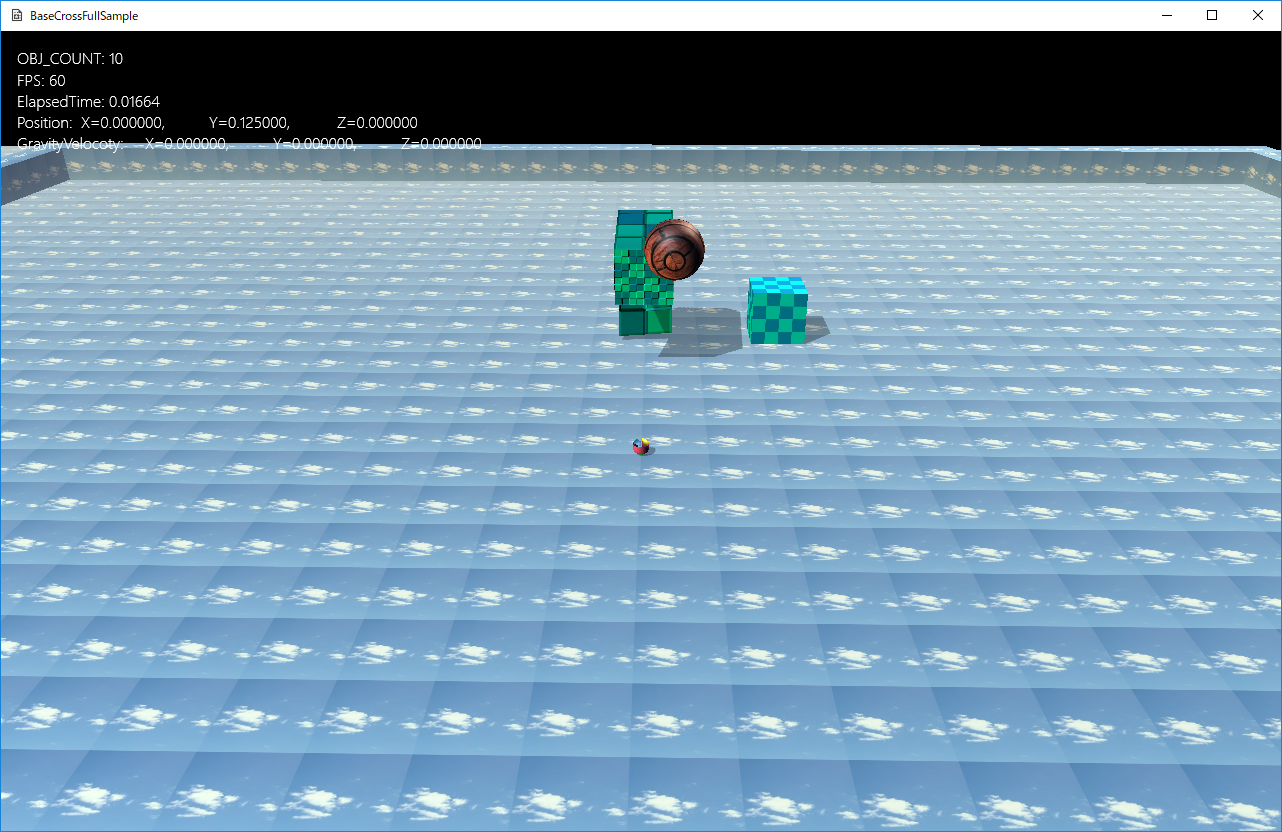
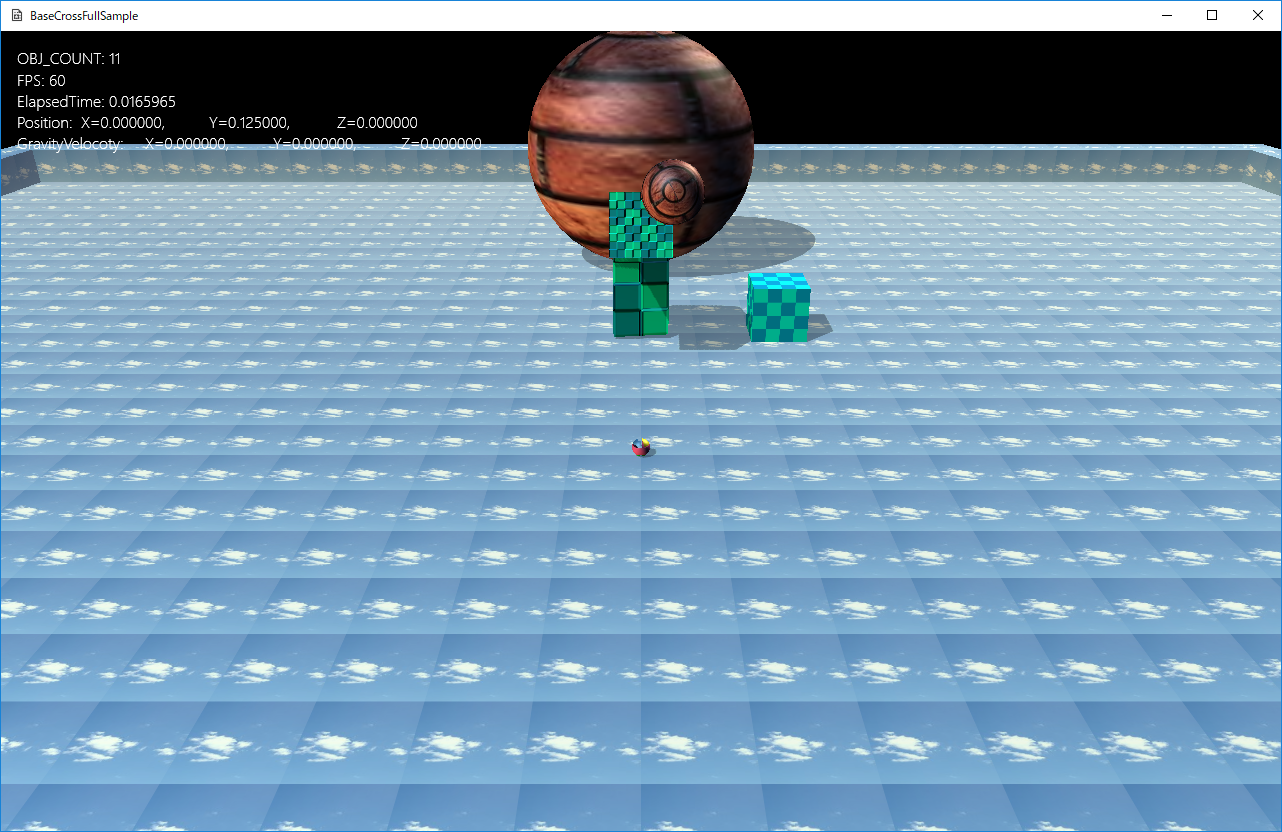
フルサンプル207修正。ドキュメントも修正。

Changed region(s): [[0.0, 0.0312, 1.0, 1.0]]

diff --git a/Documents/12_07.html b/Documents/12_07.html
@@ -25,10 +25,10 @@
 <p>図1207a</p>
 <p>&nbsp;</p>
 　プレイヤーはAボタンでジャンプ、Xボタンで球を発射します。この辺りは前項と同じです。<br />
-　このサンプルには２つのボックス型オブジェクトが配置されています。右のはスタティックなモデルで、左がボーンモデルです。<br />
+　このサンプルには２つのボックス型オブジェクトと、奥に大きい球体が配置されています。右と奥ははスタティックなモデルで、左がボーンモデルです。<br />
 　Xボタンで発射された球は、これらのオブジェクトにぶつかると、スパークを出し反発します。<br />
 　ボーンモデルの場合も、アニメーションされている場所で反発します。
-<h4>メッシュの三角形との衝突判定</h4>
+<h4>メッシュ内の三角形との衝突判定</h4>
 　前項で紹介した<b>衝突判定</b>は<b>ボリューム境界</b>を使用したものです。モデルなどを単純な３Ｄの形状と見立てて、判定を行います。<br />
 　しかし今回のサンプルでは、メッシュ内の各三角形と衝突判定を行います。<br />
 　まず、発射された球体との判定ですが、<b>Charaaacter.h/cpp</b>に記述があります<b>FireSphereクラス</b>です。<br />
@@ -50,34 +50,37 @@ void FireSphere::OnUpdate() {
         }
         else {
             ptrDraw->SetDiffuse(Col4(1.0f, 1.0f, 1.0f, 1.0f));
-
             <span class="red">auto EnemyPtr = GetStage()->GetSharedGameObject&lt;EnemyBox>(L"EnemyBox");
+            auto BonePtr = GetStage()->GetSharedGameObject&lt;BoneChara>(L"BoneChara");
+            auto SpherePtr = GetStage()->GetSharedGameObject&lt;EnemySphere>(L"EnemySphere");
             Vec3 HitPoint;
             TRIANGLE tri;
             bool isModelHit = false;
-            if (EnemyPtr->IsHitSegmentTriangles(BeforePos, Pos, tri,HitPoint)) {
+            if (EnemyPtr->IsHitSegmentTriangles(BeforePos, Pos, tri, HitPoint)) {
                 //スパークの放出
                 auto PtrSpark = GetStage()->GetSharedGameObject&lt;MultiSpark>(L"MultiSpark");
                 PtrSpark->InsertSpark(HitPoint);
                 isModelHit = true;
             }
-            else {
-                auto BonePtr = GetStage()->GetSharedGameObject&lt;BoneChara>(L"BoneChara");
-                if (BonePtr->IsHitSegmentTriangles(BeforePos, Pos, tri,HitPoint)) {
-                    //スパークの放出
-                    auto PtrSpark = GetStage()->GetSharedGameObject&lt;MultiSpark>(L"MultiSpark");
-                    PtrSpark->InsertSpark(HitPoint);
-                    isModelHit = true;
-                }
+            else if (BonePtr->IsHitSegmentTriangles(BeforePos, Pos, tri, HitPoint)) {
+                //スパークの放出
+                auto PtrSpark = GetStage()->GetSharedGameObject&lt;MultiSpark>(L"MultiSpark");
+                PtrSpark->InsertSpark(HitPoint);
+                isModelHit = true;
             }
+            else if (SpherePtr->IsHitSegmentTriangles(BeforePos, Pos, tri, HitPoint)) {
+                //スパークの放出
+                auto PtrSpark = GetStage()->GetSharedGameObject&lt;MultiSpark>(L"MultiSpark");
+                PtrSpark->InsertSpark(HitPoint);
+                isModelHit = true;
+            }</span>
             if (isModelHit) {
                 m_Velocity.reflect(tri.GetNormal());
                 if (m_Velocity.length() > 20.0f) {
                     m_Velocity.normalize();
                     m_Velocity *= 20.0f;
                 }
-
-            }</span>
+            }
         }
     }
     else {
@@ -98,12 +101,26 @@ void FireSphere::OnUpdate() {
 　この関数は以下のようになっています。
 <div class="box1">
 <pre>
-    bool EnemyBox::IsHitSegmentTriangles(const Vec3& StartPos, const Vec3& EndPos,
-             TRIANGLE& tri, Vec3& HitPoint) {
-        auto PtrDraw = GetComponent&lt;BcPNTStaticDraw>();
-        size_t hitIndex;
-        return <span class="red">PtrDraw->HitTestStaticMeshSegmentTriangles(StartPos, EndPos, HitPoint, tri,hitIndex);</span>
+bool EnemyBox::IsHitSegmentTriangles(const Vec3& StartPos, const Vec3& EndPos, TRIANGLE& tri, Vec3& HitPoint) {
+    auto ptrColl = GetComponent&lt;CollisionObb>();
+    OBB obb = ptrColl->GetObb();
+    SPHERE StartSp;
+    StartSp.m_Center = StartPos;
+    StartSp.m_Radius = 0.25f;
+    SPHERE EndSp;
+    EndSp.m_Center = EndPos;
+    EndSp.m_Radius = 0.25f;
+    SPHERE sp = HitTest::SphereEnclosingSphere(StartSp, EndSp);
+    Vec3 ret;
+    if (!HitTest::SPHERE_OBB(sp, obb, ret)) {
+        //判定前処理
+        //これにより無駄な判定を避けられる
+        return false;
     }
+    <span class="red">auto PtrDraw = GetComponent&lt;BcPNTStaticDraw>();
+    size_t hitIndex;
+    return PtrDraw->HitTestStaticMeshSegmentTriangles(StartPos, EndPos, HitPoint, tri, hitIndex);</span>
+}
 </pre>
 </div>
 　のようになっています。<br />
@@ -112,27 +129,27 @@ void FireSphere::OnUpdate() {
 　<b>FireSphere側</b>では、<b>FireSphere::OnUpdate()関数</b>で、
 <div class="box1">
 <pre>
-            if (EnemyPtr->IsHitSegmentTriangles(BeforePos, Pos, tri,HitPoint)) {
-                //スパークの放出
-                auto PtrSpark = GetStage()->GetSharedGameObject&lt;MultiSpark>(L"MultiSpark");
-                PtrSpark->InsertSpark(HitPoint);
-                isModelHit = true;
-            }
+        if (EnemyPtr->IsHitSegmentTriangles(BeforePos, Pos, tri, HitPoint)) {
+            //スパークの放出
+            auto PtrSpark = GetStage()->GetSharedGameObject&lt;MultiSpark>(L"MultiSpark");
+            PtrSpark->InsertSpark(HitPoint);
+            isModelHit = true;
+        }
 </pre>
 </div>
 　とします。つまり、ヒットポイントをエミッターとしてエフェクトを送出します。また、<b>isModelHitフラグ</b>をtrueにします。<br />
-　同様の処理を<b>BoneChara</b>に対しても行います。左側のくねくねする物体です。このキャラクターのメンバ関数<b>BoneChara::IsHitSegmentTriangles()関数</b>では、<b>描画コンポーネント</b>の<b>HitTestSkinedMeshSegmentTriangles()関数</b>を呼び出します。<br />　こちらは<b>ボーン処理された三角形と線分</b>の衝突判定を行いますので、例えば、このくねくね物体が首をもたげても空中で衝突することはありません。こちらでも同様、スパークを放出します。<br />
+　同様の処理を<b>BoneCharaやEnemySphere</b>に対しても行います。BoneCharaは左側のくねくねする物体です。EnemySphereは奥の球体です。このキャラクターのメンバ関数、例えば<b>BoneChara::IsHitSegmentTriangles()関数</b>では、<b>描画コンポーネント</b>の<b>HitTestSkinedMeshSegmentTriangles()関数</b>を呼び出します。<br />　こちらは<b>ボーン処理された三角形と線分</b>の衝突判定を行いますので、例えば、このくねくね物体が首をもたげても空中で衝突することはありません。こちらでも同様、スパークを放出します。<br />
 　上記どちらかと衝突した場合、<b>isModelHitフラグ</b>はtrueになりますので、
 <div class="box1">
 <pre>
-            if (isModelHit) {
-                m_Velocity.reflect(tri.GetNormal());
-                if (m_Velocity.length() > 20.0f) {
-                    m_Velocity.normalize();
-                    m_Velocity *= 20.0f;
-                }
-
+        if (isModelHit) {
+            m_Velocity.reflect(tri.GetNormal());
+            if (m_Velocity.length() > 20.0f) {
+                m_Velocity.normalize();
+                m_Velocity *= 20.0f;
             }
+
+        }
 </pre>
 </div>
 　という処理で反発（reflect）させます。こうすることで、<b>FireSphere</b>は跳ね返ります。<br />
@@ -168,11 +185,12 @@ void FireSphere::OnCollisionExcute(const CollisionPair& Pair) {
 </pre>
 </div>
 <h4>プレイヤー三角形との衝突判定</h4>
-　プレイヤーも三角形と衝突します。先ほどのボックスやくねくねする物体の三角形との衝突があった場合、エフェクトを放出します。<br />
+　このサンプルではプレイヤーも三角形と衝突します。先ほどのボックスやくねくねする物体の三角形、あるいは奥の球体との衝突があった場合、エフェクトを放出します。<br />
 　プレイヤーは<b>線</b>ではなく<b>球体として</b>判定を行っています。ここは、プレイヤーの1つ前のターン位置と現在の位置をとってきて、<b>線</b>として判定する方法もあるでしょう、ただこのサンプルでは<b>球体として</b>行います。<br />
 　プレイヤーの判定部分は、<b>Player::ChkModelCollision()関数</b>で行ってます。この中から、各物体の<b>三角形と球の判定</b>の関数を呼び出しています。<br />
-　FireSphereとは違い、プレイヤーでは衝突後の処理は記述してません。例えばくねくねする物体の<b>曲がった部分に乗る</b>のような処理があればよりリアルなのでしょうが、その部分は各自検討してください。<br />
-　その処理をするためにはプレイヤーに<b>速度</b>という概念をおいて、コリジョンコンポーネントがやってるような処理を実装する必要があるでしょう。
+　FireSphereとは違い、プレイヤー側では衝突後の処理は記述してません。例えばくねくねする物体の<b>曲がった部分に乗る</b>のような処理があればよりリアルなのでしょうが、その部分は各自検討してください。<br />
+　その処理をするためにはプレイヤーに<b>速度</b>という概念をおいて、コリジョンコンポーネントがやってるような処理を実装する必要があるでしょう。<br />
+　ただし、奥の球体は、球体側で特殊な処理をしています。それは後述します。
 <h4>ボーン情報をとってくる</h4>
 　このサンプルでは<b>スキンメッシュのボーン情報を取得する</b>ことも紹介されています。<br />
 　<b>Character.h/cpp</b>には<b>BallChara</b>というオブジェクトも実装されています。<br />
@@ -217,7 +235,125 @@ void BallChara::OnUpdate() {
 </pre>
 </div>
 　で位置と回転を取り出して設定すれば、<b>BoneChara</b>の特定のボーンに吸着する動きを実装することができます。
-
+<h4>メッシュ内の三角形のデータを変更する</h4>
+　奥にある球体にプレイヤーが衝突すると、球体が削り取られるように壊れていきます。<br />
+　これは、動的にメッシュの内容を変更していくことで実装しています。<br />
+　では<b>動的にメッシュの内容を変更する</b>とはどういうことなのでしょうか？<br />
+　以下の画像に注目ください。最初は球体だったのが、プレイヤーが衝突することで、形状が削り取られています
+<p>&nbsp;</p>
+<img src="img/1207b.png" width="80%"/>
+<p>図1207b</p>
+<p>&nbsp;</p>
+　このサンプルのプレイヤーは、空中でジャンプすることも可能です。球体は大きいですが、球体の上部までジャンプしていって、どこでも削り取ることが可能となっています。<br />
+　さて、実装ですが、まず、このような<b>使いまわしをしない（つまりインスタンスは、ステージ内で1つ）</b>のようなメッシュは、ゲームオブジェクトのメンバ変数として実装しておくと扱いが便利になります。<br />
+　以下、大きい球体（EnemySphere）の宣言部ですが
+<div class="box1">
+<pre>
+class EnemySphere : public GameObject {
+    float m_Scale;
+    Vec3 m_Position;
+    <span class="red">shared_ptr&lt;MeshResource> m_MeshRes;</span>
+public:
+    //構築と破棄
+    EnemySphere(const shared_ptr&lt;Stage>& StagePtr,
+        float Scale,
+        const Vec3& Position
+    );
+    virtual ~EnemySphere();
+    //初期化
+    virtual void OnCreate() override;
+    //操作
+    bool IsHitSegmentTriangles(const Vec3& StartPos, const Vec3& EndPos, TRIANGLE& tri, Vec3& HitPoint);
+    bool IsHitSphereTriangles(const SPHERE& StartSp, const SPHERE& EndSp, TRIANGLE& tri, Vec3& HitPoint);
+};
+</pre>
+</div>
+　赤い部分がメッシュのポインタです。ここに専用のメッシュを作成して設定します。<br />
+　以下、<b>EnemySphere::OnCreate()関数</b>です。
+<div class="box1">
+<pre>
+void EnemySphere::OnCreate() {
+    GetStage()->SetSharedGameObject(L"EnemySphere", GetThis&lt;EnemySphere>());
+    //初期位置などの設定
+    auto ptrTrans = GetComponent&lt;Transform>();
+    ptrTrans->SetScale(Vec3(m_Scale));
+    ptrTrans->SetRotation(Vec3(0));
+    ptrTrans->SetPosition(m_Position);
+    //CollisionSphere衝突判定を付ける(Sphere取り出しのため)
+    auto ptrColl = AddComponent&lt;CollisionSphere>();
+    //無効にしておく
+    ptrColl->SetUpdateActive(false);
+    //描画コンポーネントの設定
+    auto ptrDraw = AddComponent&lt;BcPNTStaticDraw>();
+    <span class="red">vector&lt;VertexPositionNormalTexture> vertices;
+    vector&lt;uint16_t> indices;
+    MeshUtill::CreateSphere(1.0f, 18, vertices, indices);
+    m_MeshRes = MeshResource::CreateMeshResource(vertices, indices,true);</span>
+    ptrDraw->SetMeshResource(m_MeshRes);
+    //描画するテクスチャを設定
+    ptrDraw->SetTextureResource(L"WALL_TX");
+    //影をつける（シャドウマップを描画する）
+    auto shadowPtr = AddComponent&lt;Shadowmap>();
+    //影の形（メッシュ）を設定
+    shadowPtr->SetMeshResource(m_MeshRes);
+}
+</pre>
+</div>
+　赤い部分がメッシュを作成しているところです。
+<div class="box1">
+<pre>
+    m_MeshRes = MeshResource::CreateMeshResource(vertices, indices,<span class="red">true</span>);
+</pre>
+</div>
+　上記のように、CreateMeshResource()関数の最後の引数を<b>true</b>にすると、このメッシュの頂点を変更できるようになります。<br />
+　そして、以下は<b>プレイヤーが衝突したらメッシュの形状を変える</b>処理をしているところです。
+<div class="box1">
+<pre>
+bool EnemySphere::IsHitSphereTriangles(const SPHERE& StartSp, const SPHERE& EndSp, TRIANGLE& tri, Vec3& HitPoint) {
+    auto ptrColl = GetComponent&lt;CollisionSphere>();
+    SPHERE sp1 = ptrColl->GetSphere();
+    SPHERE sp2 = HitTest::SphereEnclosingSphere(StartSp, EndSp);
+    Vec3 ret;
+    if (!HitTest::SPHERE_SPHERE(sp1, sp2)) {
+        //判定前処理
+        //これにより無駄な判定を避けられる
+        return false;
+    }
+    auto PtrDraw = GetComponent&lt;BcPNTStaticDraw>();
+    size_t hitIndex;
+    if (PtrDraw->HitTestStaticMeshSphereTriangles(StartSp, EndSp, HitPoint, tri, hitIndex)) {
+        <span class="red">//hitindexを頂点のインデックスに換算
+        hitIndex *= 3;
+        auto& verVec = m_MeshRes->GetBackupVerteces&lt;VertexPositionNormalTexture>();
+        vector&lt;uint16_t>& indexVec = m_MeshRes->GetBackupIndices&lt;VertexPositionNormalTexture>();
+        verVec[indexVec[hitIndex]].position *= 0.95;
+        verVec[indexVec[hitIndex + 1]].position *= 0.95;
+        verVec[indexVec[hitIndex + 2]].position *= 0.95;
+        m_MeshRes->UpdateVirtexBuffer(verVec);</span>
+        return true;
+    }
+    return false;
+}
+</pre>
+</div>
+　球体（プレイヤー）と、このメッシュ内の三角形が衝突した場合<b>hitIndex</b>には、三角形のインデックス（並び順）が返されます。<br />
+　これを<b>hitIndex *= 3</b>とすることで、<b>頂点の順番（三角形の最初の頂点の順番）</b>に変更できます。ですので、<b>頂点の順番</b>というのは、メッシュ上は<b>インデックスバッファが指す頂点の順番</b>ですから
+<div class="box1">
+<pre>
+        verVec[indexVec[hitIndex]].position *= 0.95;
+        verVec[indexVec[hitIndex + 1]].position *= 0.95;
+        verVec[indexVec[hitIndex + 2]].position *= 0.95;
+</pre>
+</div>
+　のようにすることで、バックアップされている頂点を変更できます。最後に
+<div class="box1">
+<pre>
+        m_MeshRes->UpdateVirtexBuffer(verVec);
+</pre>
+</div>
+　とすることで、このメッシュリソースの頂点を変更します。<br />
+　<b>position *= 0.95</b>というのは、<b>position</b>には、<b>球体のローカルポジション</b>が入っていて、それらは、原点<b>Vec3(0,0,0)</b>からの相対的な位置情報になります。ですので、0.95倍することで、原点に頂点が近づきますので、<b>凹む</b>ように表現できます。<br />
+　この処理は<b>MeshUtill::CreateSphere()で作成するのメッシュだからできる</b>処理です。実際のモデルなどに適用する場合は、注意が必要です。
 </div>
 <!-- /コンテンツ　-->
 <hr>

diff --git a/Documents/14_02.html b/Documents/14_02.html
@@ -15,7 +15,7 @@
 <div id="contents">
 <h2>１４．Rigidbodyと物理世界</h2>
 <h3>１４０２．少し複雑な物理オブジェクト</h3>
-　このサンプルは<b>FullSample401</b>というディレクトリに含まれます。<br />
+　このサンプルは<b>FullSample402</b>というディレクトリに含まれます。<br />
 　<b>BaseCrossDx11.sln</b>というソリューションを開くと<b>Dx11版</b>が起動します。<br />
 　<b>BaseCrossDx12.sln</b>というソリューションを開くと<b>Dx12版</b>が起動します。<br />
 <br />
@@ -134,6 +134,7 @@ void ActivePsCombinedObject::OnCreate() {
 <ul class="foot_navi">
 <li><a href="14_01.html">前へ</a></li>
 <li><a href="index.html">目次</a></li>
+<li><a href="14_03.html">次へ</a></li>
 </ul>
 <!-- /フッタ　-->
 </div>
